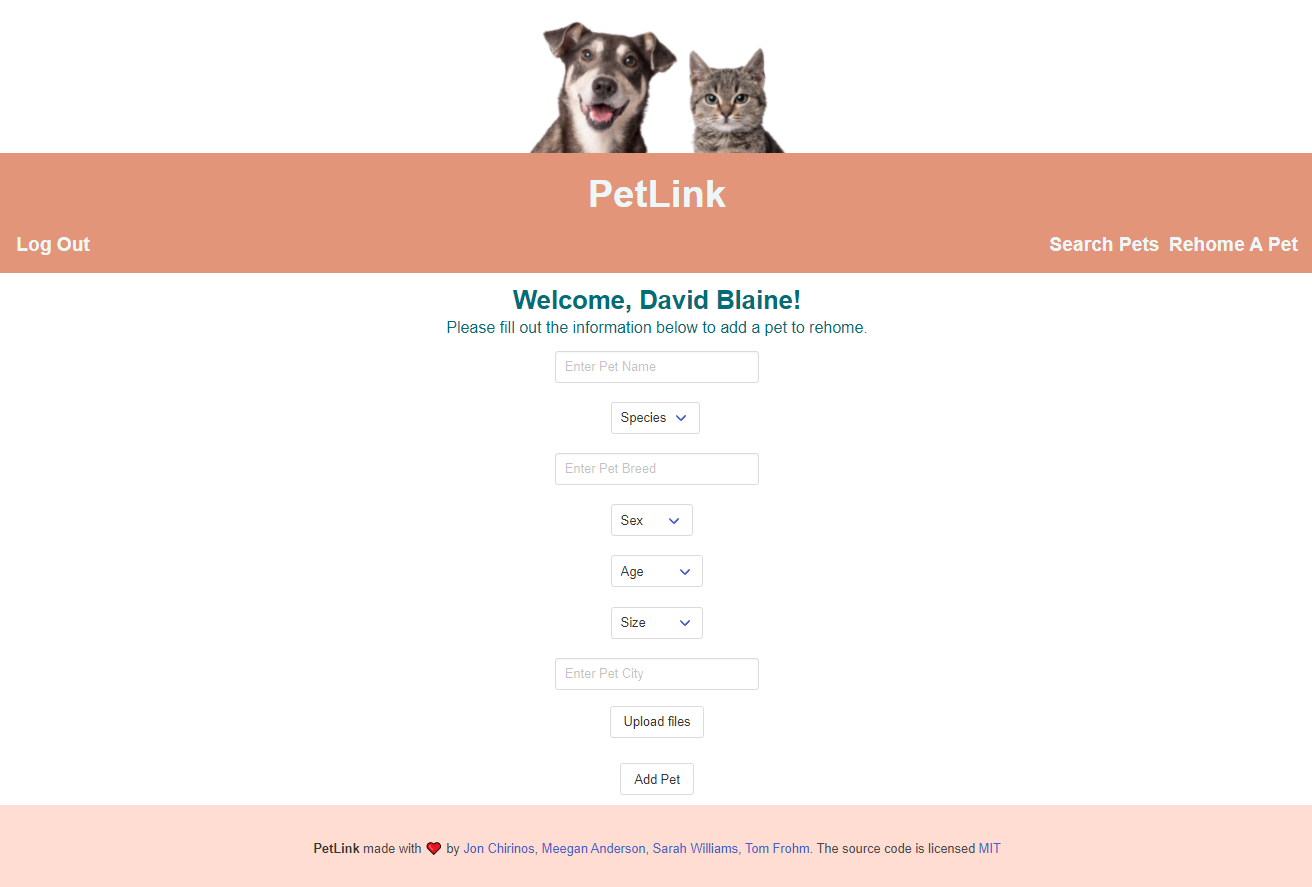
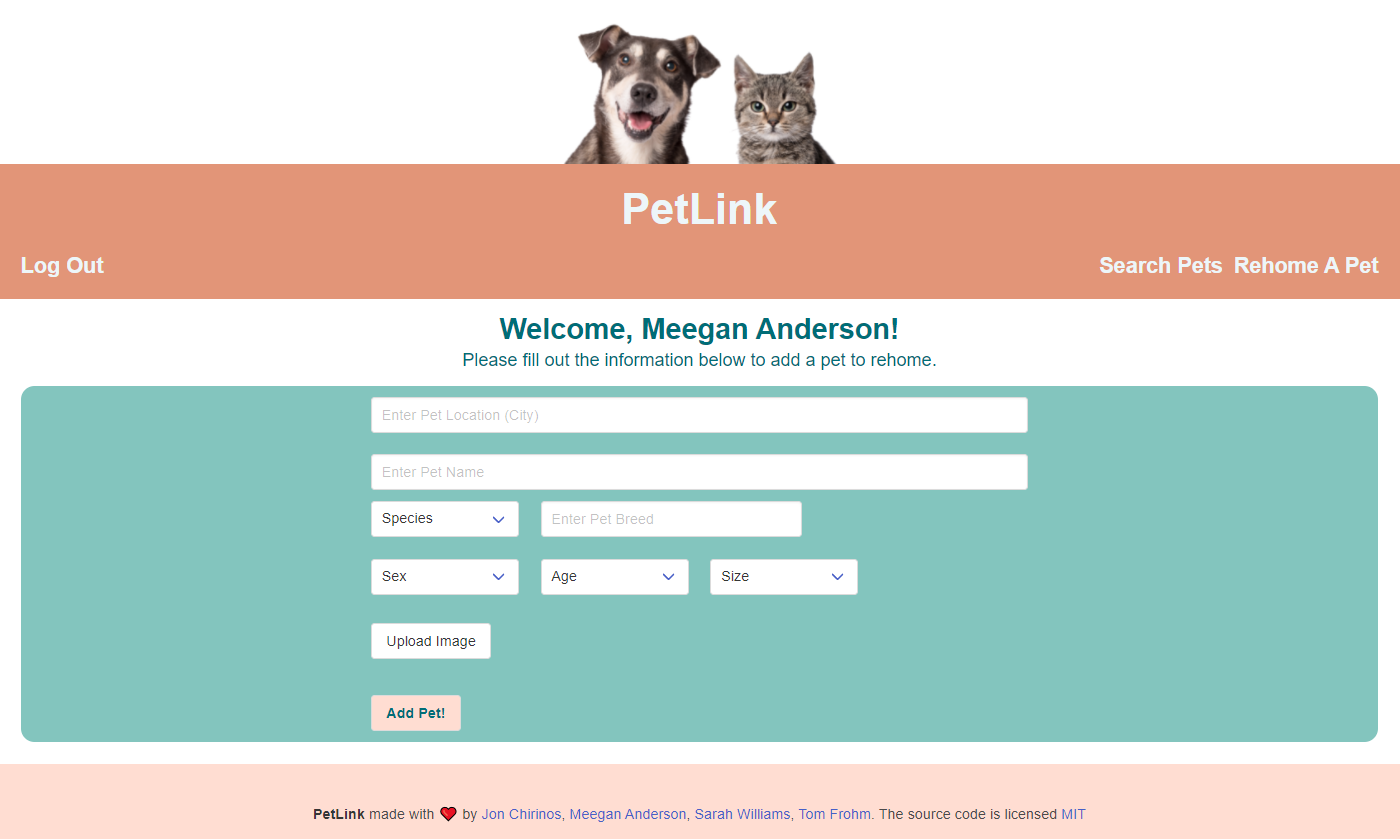
updated readme pic to match updated layout and design

diff --git a/README.md b/README.md
@@ -42,10 +42,10 @@ When the user clicks on the Rehome A Pet link on the Homepage, they are presente
 
 !["screenshot of homepage"](./public/img/petlink_ss_homepage.png)
 !["screenshot of login page"](./public/img/petlink_ss_login.png)
-!["screenshot of login page"](./public/img/petlink_ss_login.png)
+!["screenshot of rehome page"](./public/img/petlink_ss_rehome.png)
 !["screenshot of pet search page"](./public/img/petlink_ss_searchpage.png)
 !["screenshot of pet search page after a search"](./public/img/petlink_ss_searchpage2.png)
-!["screenshot of rehome a pet page"](./public/img/petlink_ss_rehome.png)
+
 
 
 
